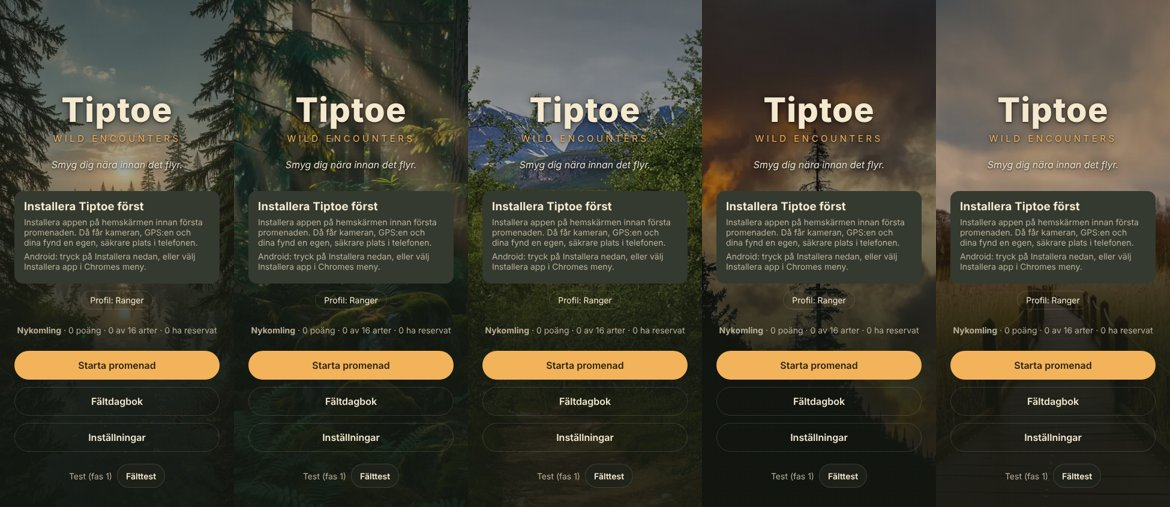
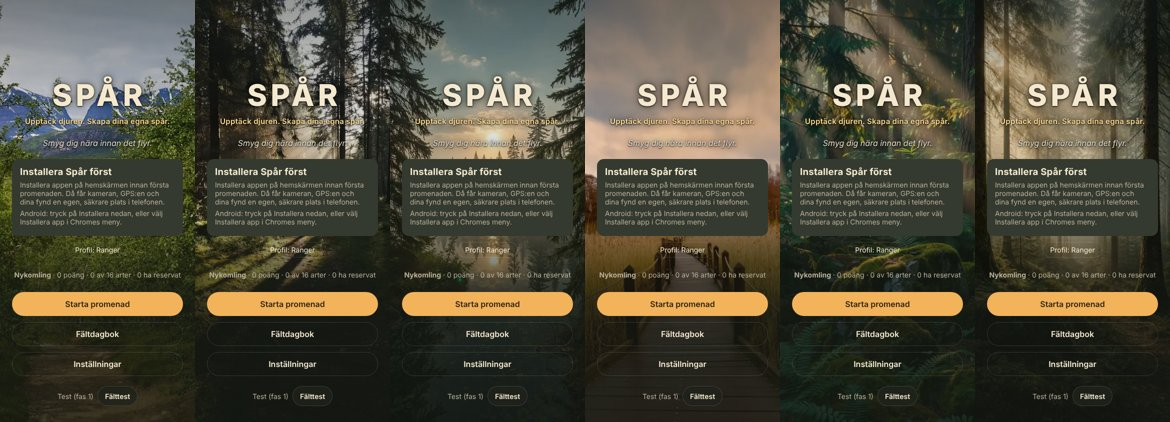
Brighter start screen: rotate only sunny backgrounds daily, lighter top shade, more legible slogan; regression test for switching profile repeatedly from the home picker
Claude-Session: https://claude.ai/code/session_01L9cAHCrmki1qSQ1gMNTwWs

diff --git a/src/app/_client/Home.tsx b/src/app/_client/Home.tsx
@@ -5,7 +5,6 @@ import { useRouter } from "next/navigation";
 import { useEffect, useState, useSyncExternalStore } from "react";
 import { ALL_SPECIES } from "@/engine/species";
 import { titleFor } from "@/engine/progress";
-import { dayPhase } from "@/engine/sun";
 import { Repo } from "@/storage/repo";
 import { exportReminder } from "@/storage/reminder";
 import { audio } from "./audio";
@@ -15,19 +14,13 @@ import { installPrompt, isIos, isStandalone } from "./install";
 import { Modal } from "./Modal";
 import { useSession, useWalkView } from "./SessionProvider";
 
-/** Startsidans bakgrunder per dygnsfas. Inom en fas byts bilden en gång per dygn (samma bild hela dagen). */
-export const HOME_BACKGROUNDS: Record<"dawn" | "day" | "dusk" | "night", string[]> = {
-  dawn: ["dawn", "dawn-lake"],
-  day: ["day", "day-moss", "day-birch"],
-  dusk: ["dusk-spruce", "dusk-boardwalk"],
-  night: ["night"],
-};
+/** Startsidans bakgrunder: bara ljusa, glada bilder (sol, grönska, gyllene ljus). En per dag, samma hela dagen. */
+export const HOME_BACKGROUNDS = ["day-birch", "day", "dawn-lake", "dusk-boardwalk", "day-moss", "dawn"] as const;
 
-/** Startsidans bakgrund efter dygnets fas (mitt i Sverige) och dagens datum. */
-export function homeBackground(tMs: number, lat = 60, lon = 15): string {
-  const set = HOME_BACKGROUNDS[dayPhase(tMs, lat, lon)];
+/** Startsidans bakgrund för dagens datum. */
+export function homeBackground(tMs: number): string {
   const day = Math.floor(tMs / 86_400_000);
-  return `/backgrounds/${set[day % set.length]}.webp`;
+  return `/backgrounds/${HOME_BACKGROUNDS[day % HOME_BACKGROUNDS.length]}.webp`;
 }
 
 /** Startskärmen: namnet, Starta promenad, (senare) fältdagbok och inställningar, och uppmaningen att installera före första promenaden. */
@@ -71,7 +64,7 @@ export function Home() {
   const start = () => (!standalone && !going ? setWarn(true) : void go());
 
   return (
-    <main className="home" style={bg ? { backgroundImage: `linear-gradient(rgba(20,24,18,.55), rgba(20,24,18,.35) 35%, rgba(20,24,18,.88) 70%), url(${bg})` } : undefined}>
+    <main className="home" style={bg ? { backgroundImage: `linear-gradient(rgba(20,24,18,.45), rgba(20,24,18,.12) 30%, rgba(20,24,18,.1) 48%, rgba(20,24,18,.82) 72%), url(${bg})` } : undefined}>
       <header className="homehead">
         <h1 className="title">{t("app.name")}</h1>
         <p className="sub">{t("app.subtitle")}</p>

diff --git a/src/tests/unit/home.test.ts b/src/tests/unit/home.test.ts
@@ -4,15 +4,11 @@ import { HOME_BACKGROUNDS, homeBackground } from "@/app/_client/Home";
 
 describe("startsidans bakgrund", () => {
   it("alla bakgrunder finns som filer", () => {
-    for (const list of Object.values(HOME_BACKGROUNDS)) for (const n of list) expect(existsSync(`public/backgrounds/${n}.webp`), n).toBe(true);
+    for (const n of HOME_BACKGROUNDS) expect(existsSync(`public/backgrounds/${n}.webp`), n).toBe(true);
   });
-  it("följer dygnets fas och är densamma hela dagen", () => {
-    const noon = Date.UTC(2026, 5, 15, 11, 0), night = Date.UTC(2026, 11, 15, 23, 0);
-    expect(HOME_BACKGROUNDS.day.map((n) => `/backgrounds/${n}.webp`)).toContain(homeBackground(noon));
-    expect(homeBackground(night)).toBe("/backgrounds/night.webp");
+  it("samma bild hela dagen, olika bilder olika dagar", () => {
+    const noon = Date.UTC(2026, 5, 15, 11, 0);
     expect(homeBackground(noon + 3_600_000)).toBe(homeBackground(noon));
-    // Olika dagar ger olika bilder inom fasen.
-    const days = new Set([0, 1, 2].map((d) => homeBackground(noon + d * 86_400_000)));
-    expect(days.size).toBe(3);
+    expect(new Set([0, 1, 2, 3, 4, 5].map((d) => homeBackground(noon + d * 86_400_000))).size).toBe(HOME_BACKGROUNDS.length);
   });
 });

diff --git a/src/app/globals.css b/src/app/globals.css
@@ -32,7 +32,8 @@ h1, h2, h3 { margin: 0; letter-spacing: 0.01em; }
 /* Start */
 .home { min-height: 100%; display: flex; flex-direction: column; justify-content: space-between; padding: calc(48px + var(--safe-top)) 24px calc(32px + var(--safe-bottom));
   background: radial-gradient(120% 70% at 50% 0%, #4a4a33 0%, #2b2f27 45%, #1a1d17 100%); background-size: cover; background-position: center; }
-.homehead .title, .homehead .sub, .homehead .tagline { text-shadow: 0 1px 3px rgba(0, 0, 0, 0.7), 0 1px 14px rgba(0, 0, 0, 0.6); }
+.homehead .title, .homehead .sub, .homehead .tagline { text-shadow: 0 1px 2px rgba(0, 0, 0, 0.9), 0 0 16px rgba(0, 0, 0, 0.65), 0 0 4px rgba(0, 0, 0, 0.5); }
+.homehead .sub { color: #ffdc93; }
 .homehead .tagline { color: #e8e2d2; }
 .fbhead { background-size: cover; background-position: center; }
 .homehead { text-align: center; margin-top: 12vh; }
